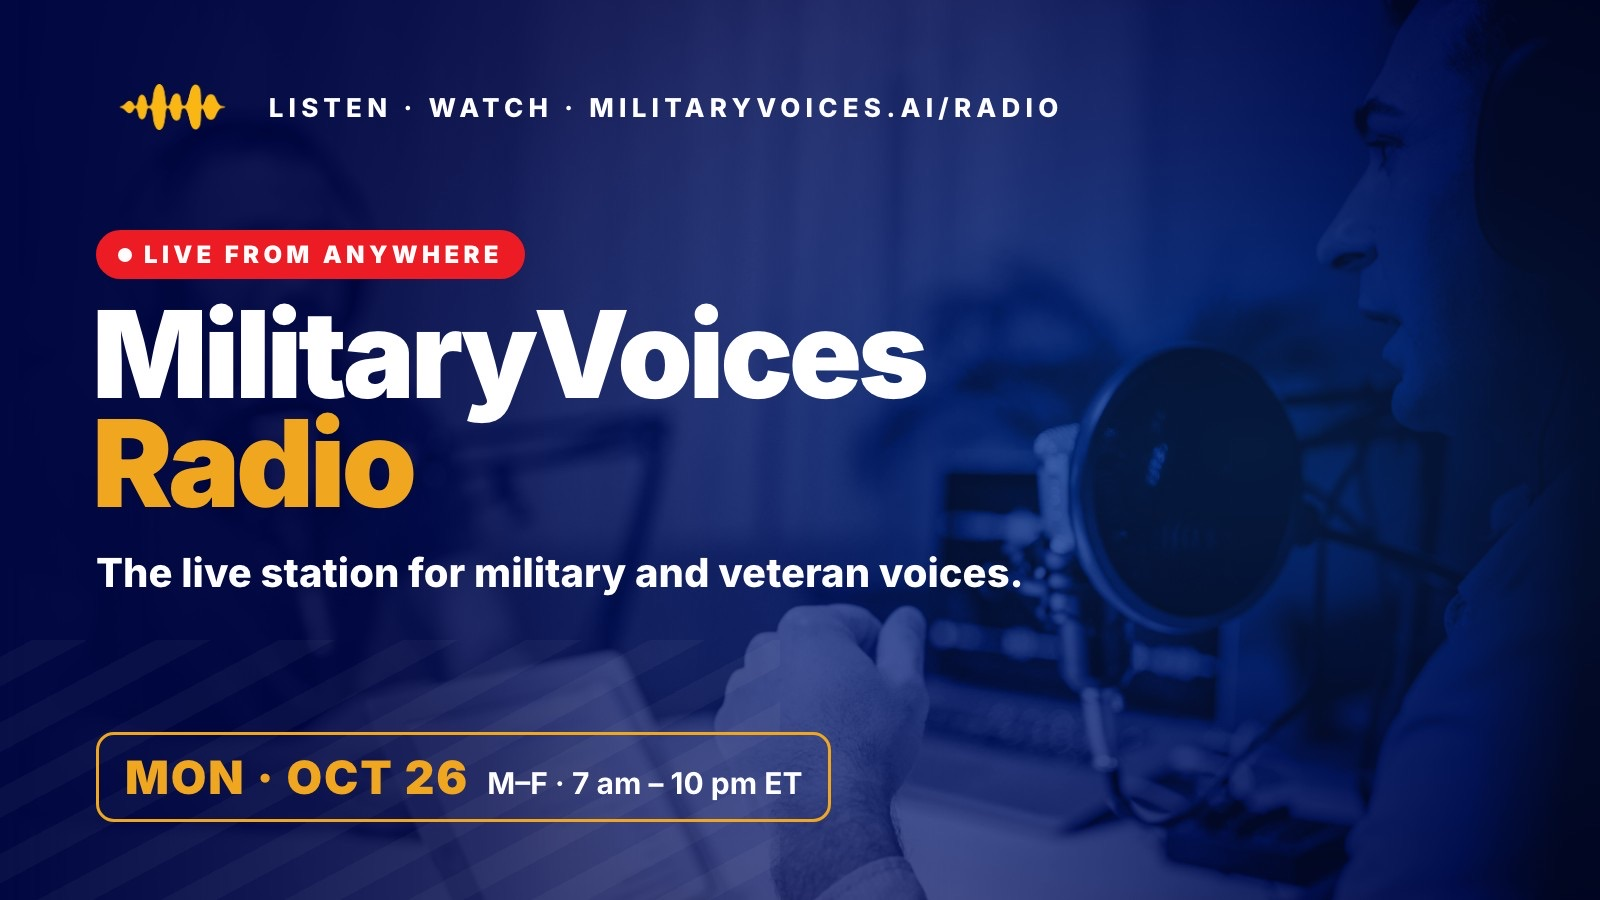
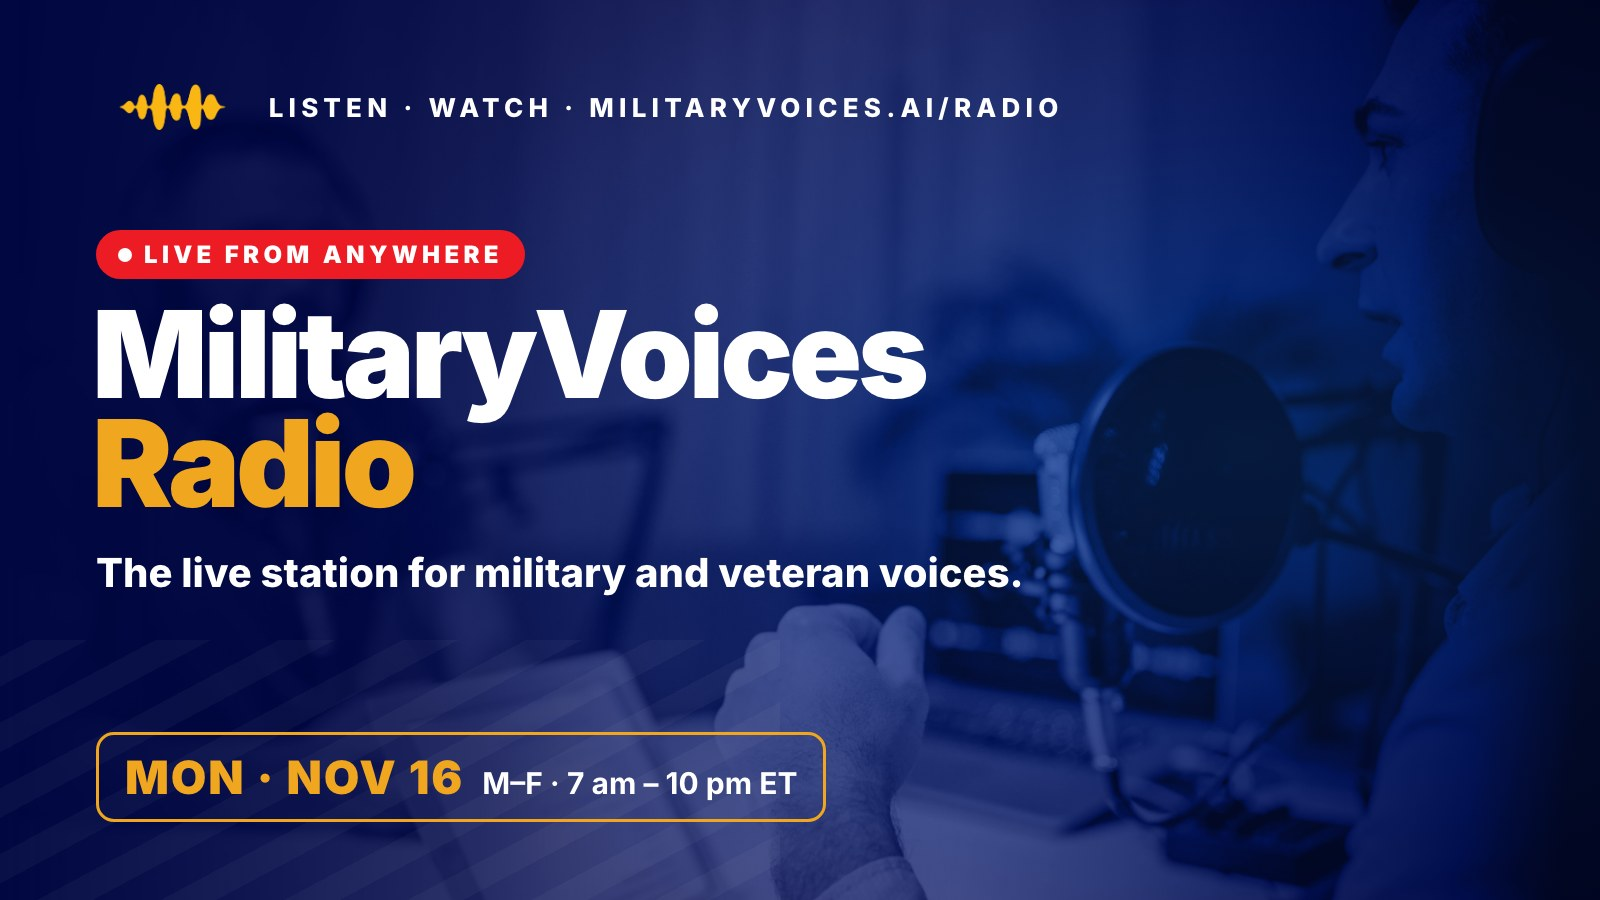
MilitaryVoices Radio moves to the week of Nov 16–20 (Thursday the 19th is a week before Thanksgiving): artwork re-rendered with the new dates, hero image versioned so browsers and link previews fetch it fresh

Changed region(s): [[0.1562, 0.8089, 0.5312, 0.9333]]

diff --git a/client/src/pages/Events.tsx b/client/src/pages/Events.tsx
@@ -39,7 +39,7 @@ export default function Events() {
     const first = new Date(dx.days[0].startAtUtc), last = new Date(dx.days[dx.days.length - 1].startAtUtc);
     items.push({
       key: "digital-experience", title: "MilitaryVoices Radio", tagline: "The live station for military and veteran voices. Live From Anywhere, weekdays 7 am to 10 pm Eastern. Podcasters: book a 30- or 60-minute slot, free during the beta week.",
-      image: "/dx/hero.jpg", start: first, end: new Date(last.getTime() + 15 * 3600_000),
+      image: "/dx/hero.jpg?v=nov", start: first, end: new Date(last.getTime() + 15 * 3600_000),
       when: `${formatDateInZone(first, zone)} – ${formatDateInZone(last, zone)} · weekdays, 7 am – 10 pm ET`, href: "/radio", cta: "Tune in",
     });
   }

diff --git a/creative/digital-experience/art.html b/creative/digital-experience/art.html
@@ -37,7 +37,7 @@
   <div class="live"><i></i>LIVE FROM ANYWHERE</div>
   <h1>MilitaryVoices<br><em>Radio</em></h1>
   <p class="sub">The live station for military and veteran voices.</p>
-  <div class="chip" id="chip"><b id="chipB">OCT 26 – 30</b><span id="chipS">M–F · 7 am – 10 pm ET · free beta</span></div>
+  <div class="chip" id="chip"><b id="chipB">NOV 16 – 20</b><span id="chipS">M–F · 7 am – 10 pm ET · free beta</span></div>
 </div>
 <script>
   const bg = new URLSearchParams(location.search).get("bg") || "bg-onair.jpg"; if (bg) { document.getElementById("photo").style.backgroundImage = `url(${bg})`; document.getElementById("rings").classList.add("off"); }

diff --git a/creative/digital-experience/email.html b/creative/digital-experience/email.html
@@ -39,7 +39,7 @@
   <h1>MilitaryVoices<br><em>Radio</em></h1>
   <p class="sub">The live station for military and veteran voices.</p>
   <p class="sub2">M–F · 7 am – 10 pm ET</p>
-  <div class="chip" id="chip"><b id="chipB">OCT 26 – 30</b><span id="chipS">7 am – 10 pm ET · free beta</span></div>
+  <div class="chip" id="chip"><b id="chipB">NOV 16 – 20</b><span id="chipS">7 am – 10 pm ET · free beta</span></div>
 </div>
 <script>
   const bg = new URLSearchParams(location.search).get("bg") || "bg-onair.jpg"; if (bg) { document.getElementById("photo").style.backgroundImage = `url(${bg})`; document.getElementById("rings").classList.add("off"); }

diff --git a/server/routes.ts b/server/routes.ts
@@ -1923,7 +1923,7 @@ export function registerRoutes(app: Express): void {
     const desc = dx
       ? `${signup.hostName} is live on MilitaryVoices Radio, a live channel of military and veteran voices. Tune in.`
       : `${signup.hostName} is live on ${event.name} for National Military Podcast Day. Tune in, or set a reminder.`;
-    const img = dx ? `${origin}/dx/hero.jpg` : `${origin}/og/slot/${id}.jpg`;
+    const img = dx ? `${origin}/dx/hero.jpg?v=nov` : `${origin}/og/slot/${id}.jpg`;
     const esc = (v: string) =>
       v.replace(/&/g, "&amp;").replace(/</g, "&lt;").replace(/>/g, "&gt;").replace(/"/g, "&quot;");
 
